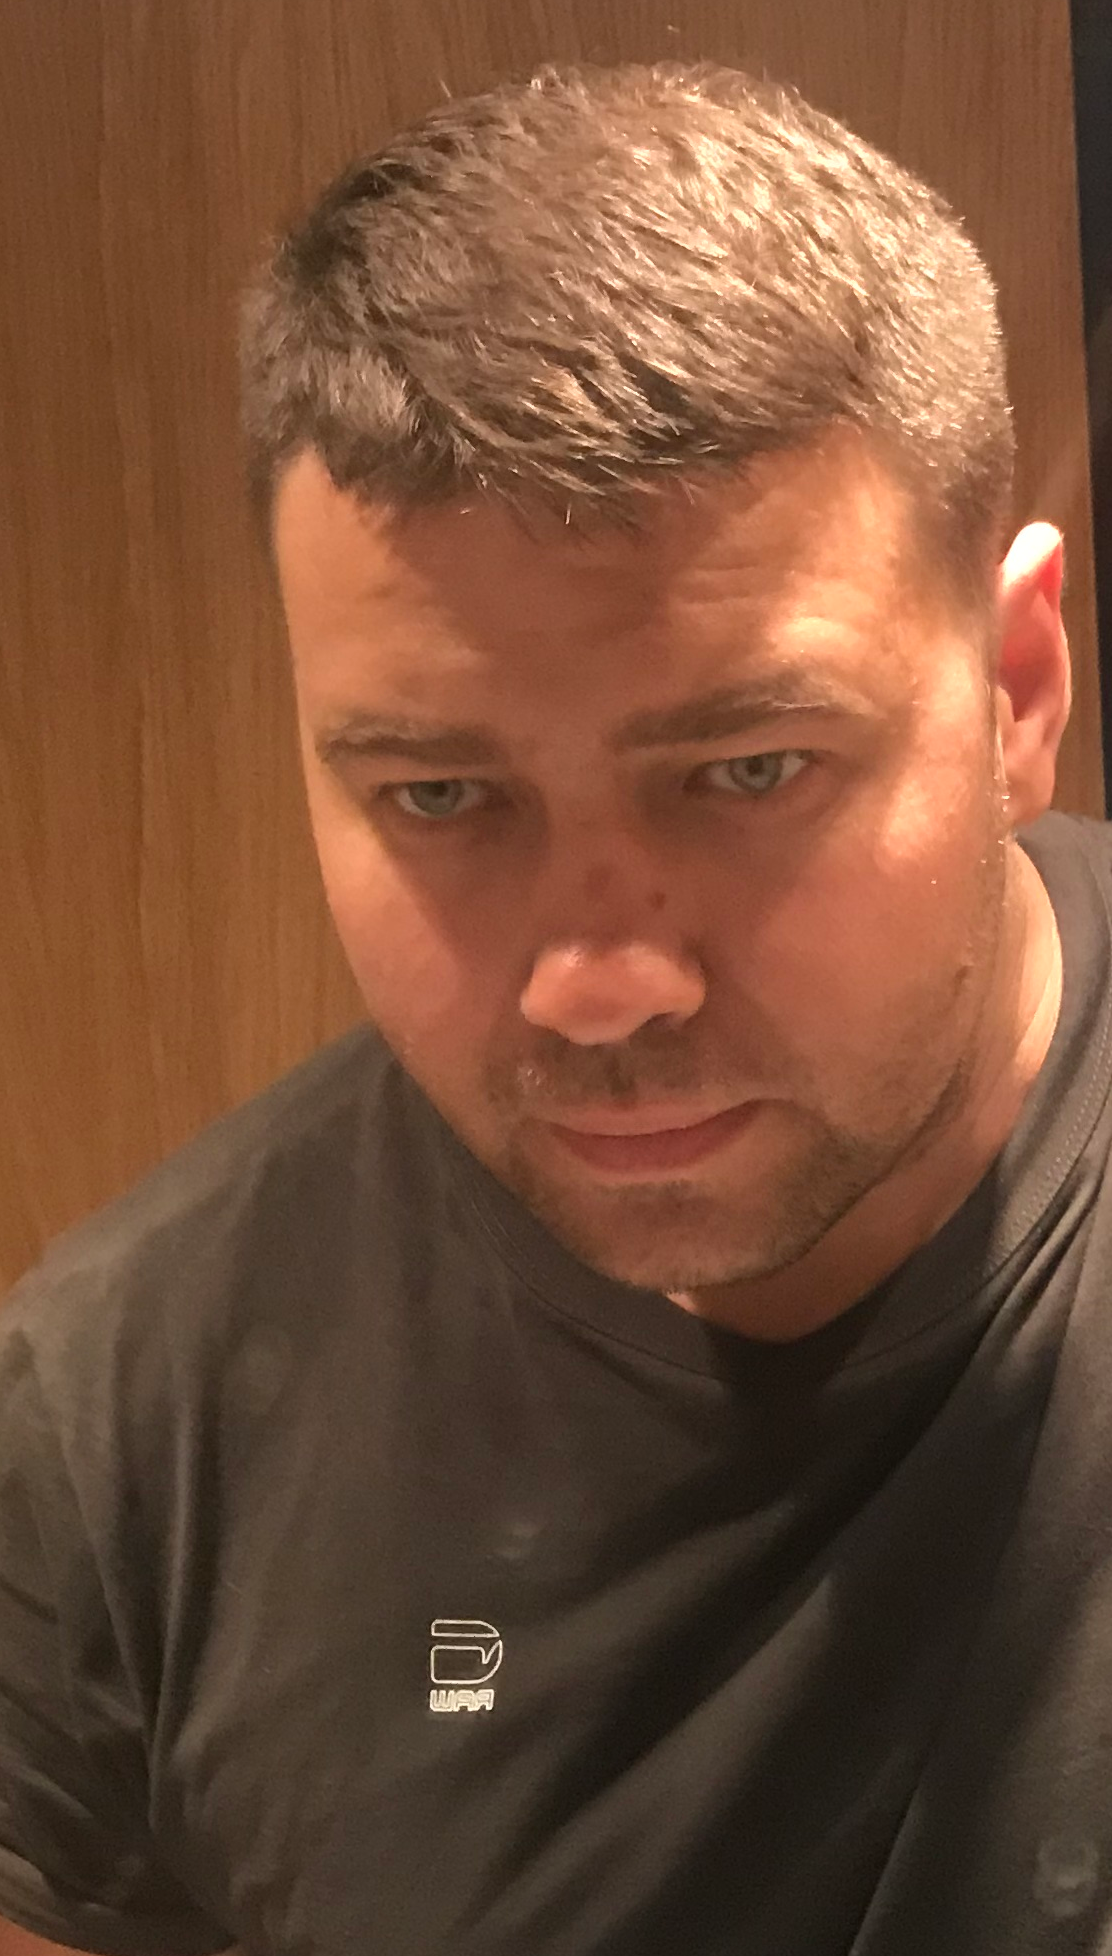
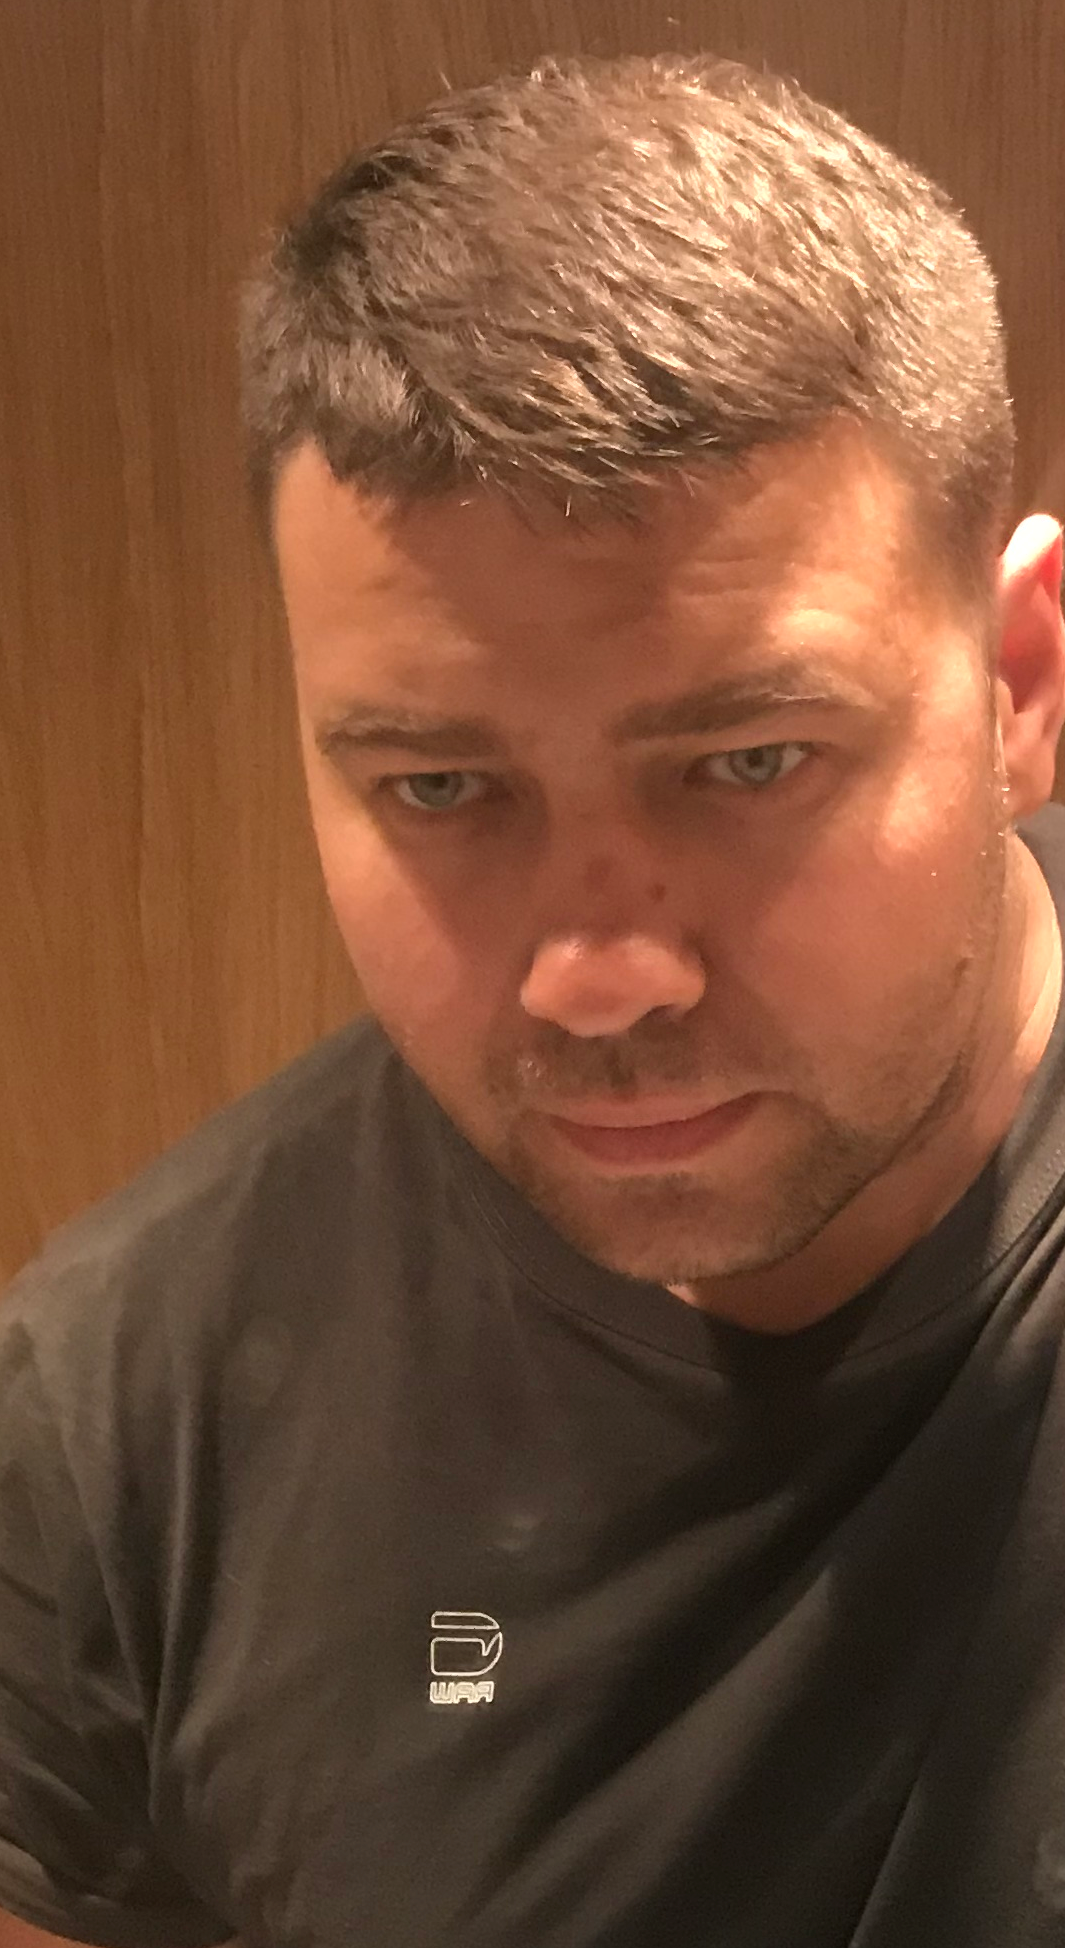
sad

diff --git a/index.html b/index.html
@@ -11,7 +11,7 @@
       <div class="resume">
         <div class="left">
           <div class="img_holder">
-            <img src="https://i.ibb.co/pLRyJ48/pic.png" alt="My pic" />
+            <img src="https://i.ibb.co/dQkrgys/pic.png" alt="My pic" />
           </div>
           <div class="contact_wrap pb">
             <div class="title">Contact</div>
